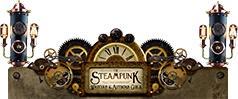
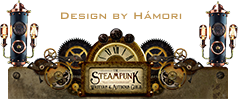
Adding creadits

Changed region(s): [[0.2353, 0.1212, 0.7647, 0.2121]]

diff --git a/index.html b/index.html
@@ -306,6 +306,7 @@
                 </ul>
             </div>
             <div class="clearfix"></div>
+            <div class="credits">HTML by <a href="http://szimadesign.hu/" target="_blank">szimadesign</a>, programming by <a href="http://linkedin.com/in/karolyi" target="_blank">karolyi</a></div>
         </div>
     </div>
 </body>

diff --git a/assets/main.css b/assets/main.css
@@ -285,6 +285,18 @@ a {
     background-color: #C09260;
 }
 
+.credits {
+    position: relative;
+    top: -120px;
+    text-align: center;
+    color: #D2BD99;
+    font-size: 10px;
+}
+
+.credits a {
+    color: #D2BD99;
+}
+
 /* Smoke canvas setup */
 
 #smoke-1 {
